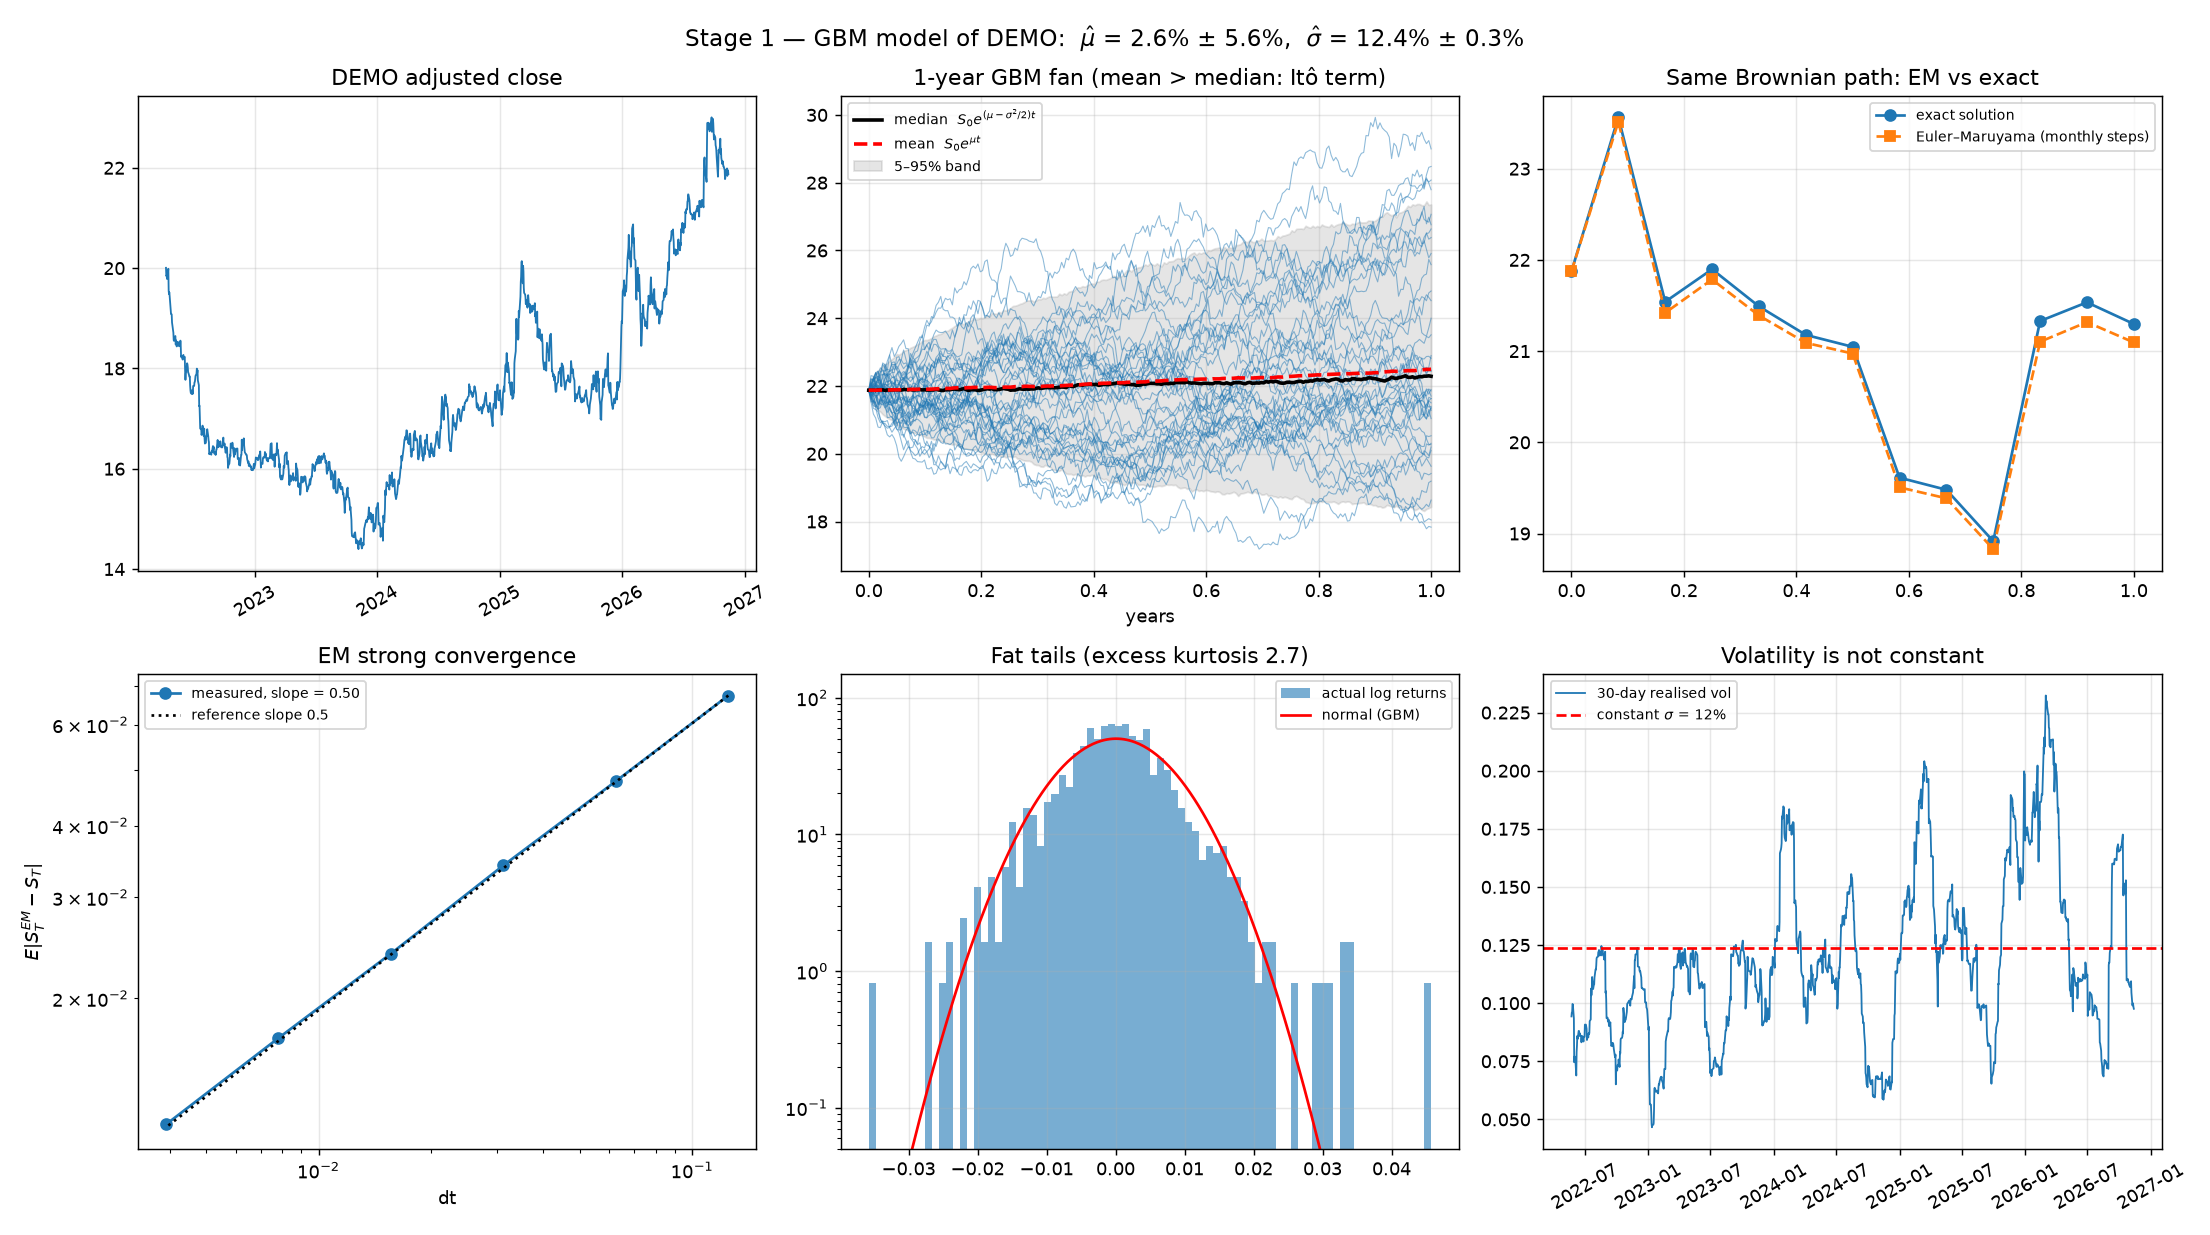
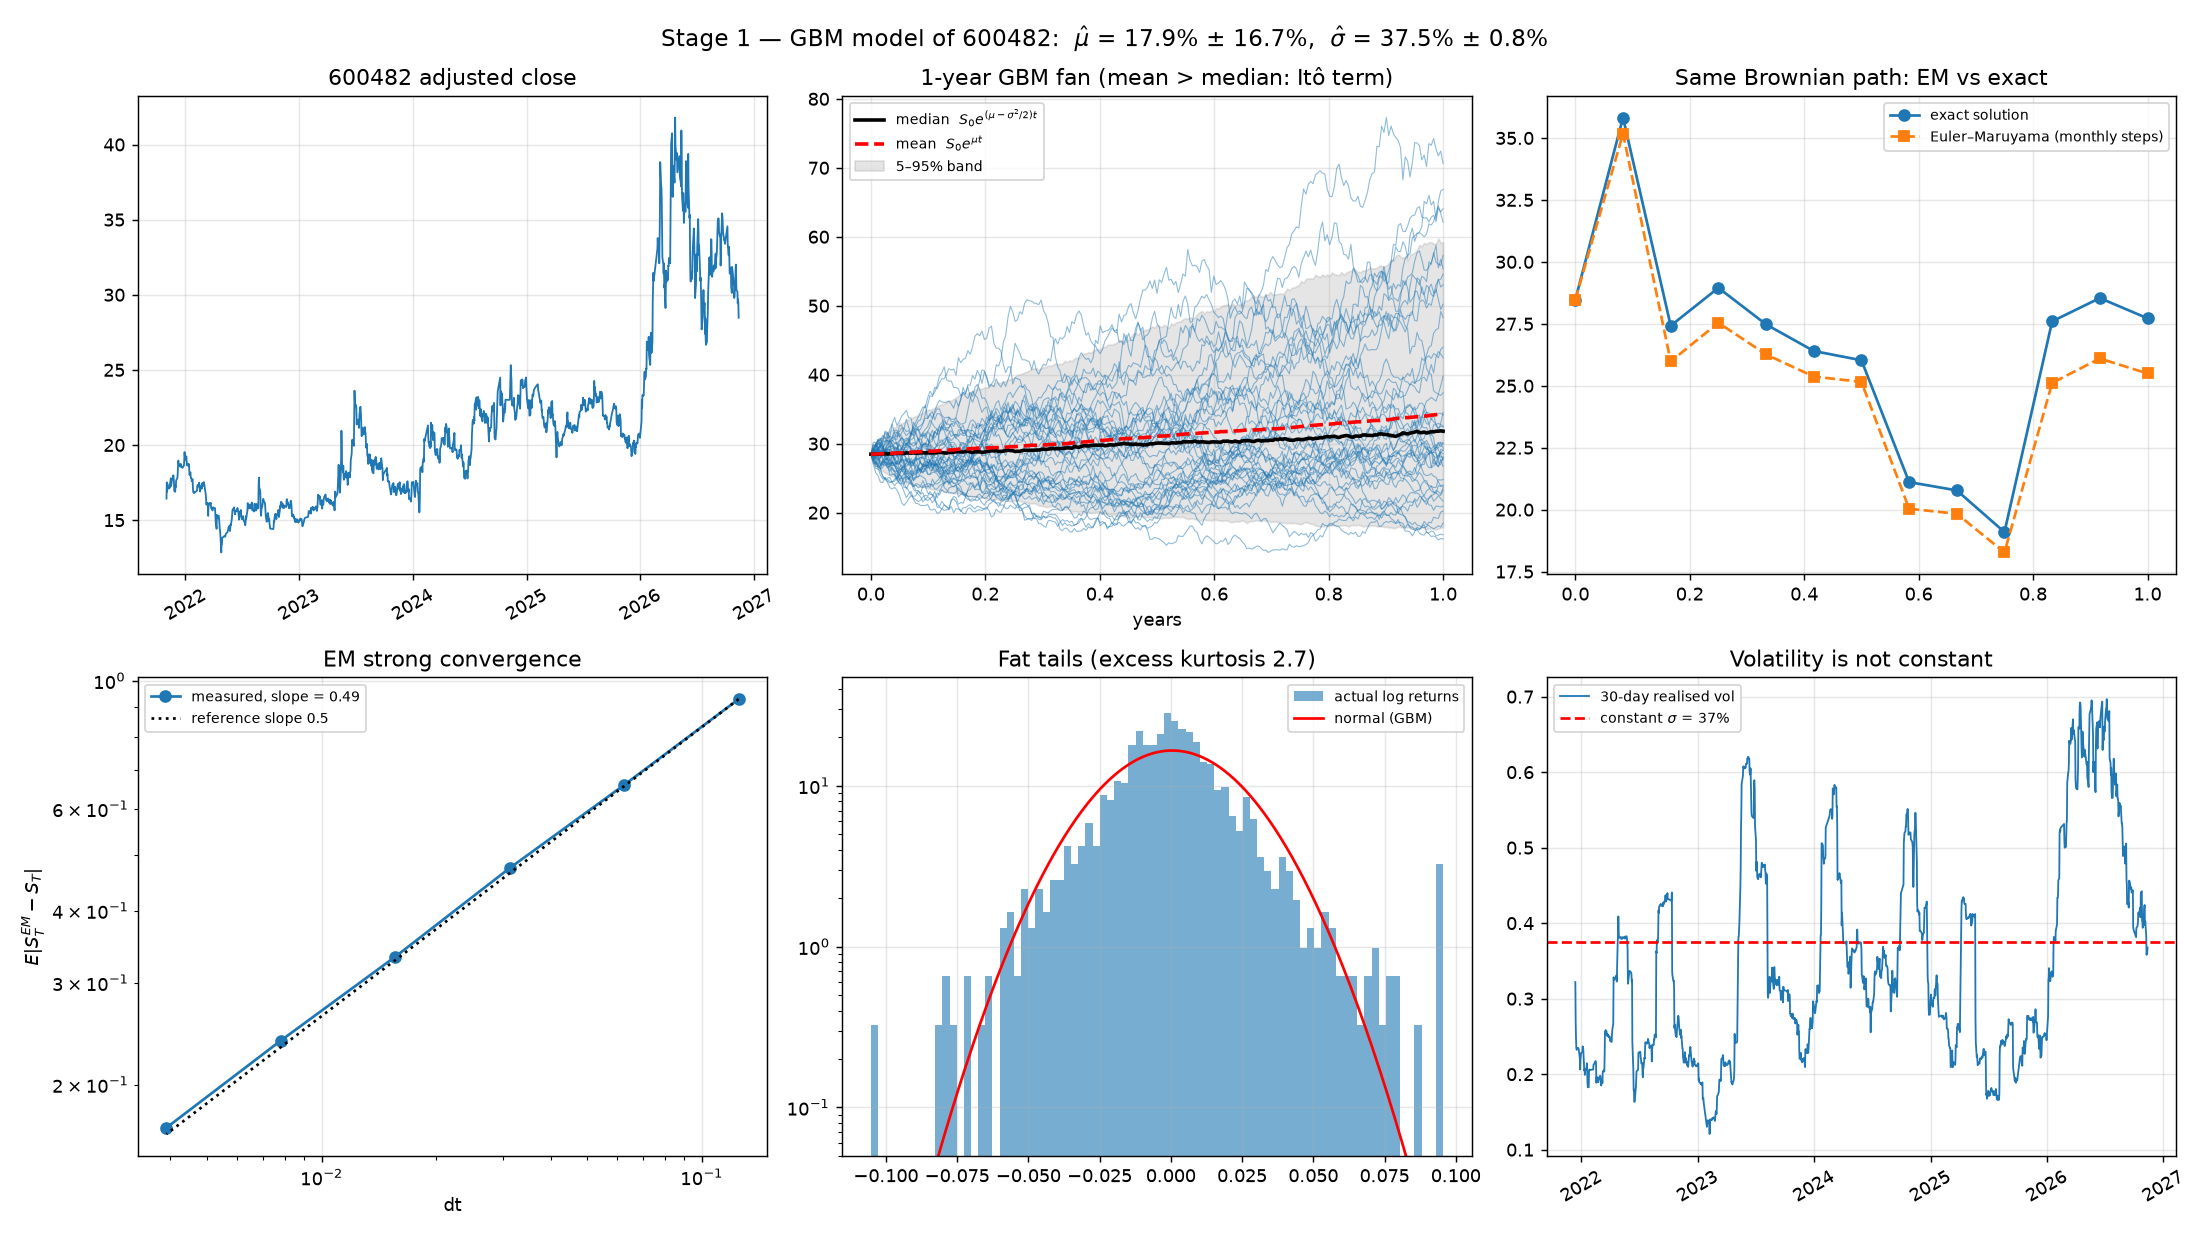
Fix latest/stage1.png showing DEMO instead of 600482; keep demo charts out of latest/

diff --git a/run_daily.py b/run_daily.py
@@ -115,6 +115,8 @@ def main():
         print(f"{date} already filed (market closed or already run). Use --force to redo.")
         return
     print(f"Trading date {date}, close {price}")
+    for stale in HERE.glob("stage*_*.png"):                 # leftovers from manual runs
+        stale.unlink()
 
     jobs = [
         ("stage1_gbm.py", ["--symbol", SYMBOL]),
@@ -134,8 +136,9 @@ def main():
     (HERE / "latest").mkdir(exist_ok=True)
     (out / "log.txt").write_text(log, encoding="utf-8")
     for png in HERE.glob("stage*_*.png"):
-        stage = png.name.split("_")[0]                      # stage1.png, stage2.png ...
-        shutil.copy(png, HERE / "latest" / f"{stage}.png")
+        if not a.demo:                                      # demo charts never replace latest/
+            stage = png.name.split("_")[0]                  # stage1.png, stage2.png ...
+            shutil.copy(png, HERE / "latest" / f"{stage}.png")
         shutil.move(str(png), out / png.name)
 
     if not a.demo:                                          # one summary row per trading day
